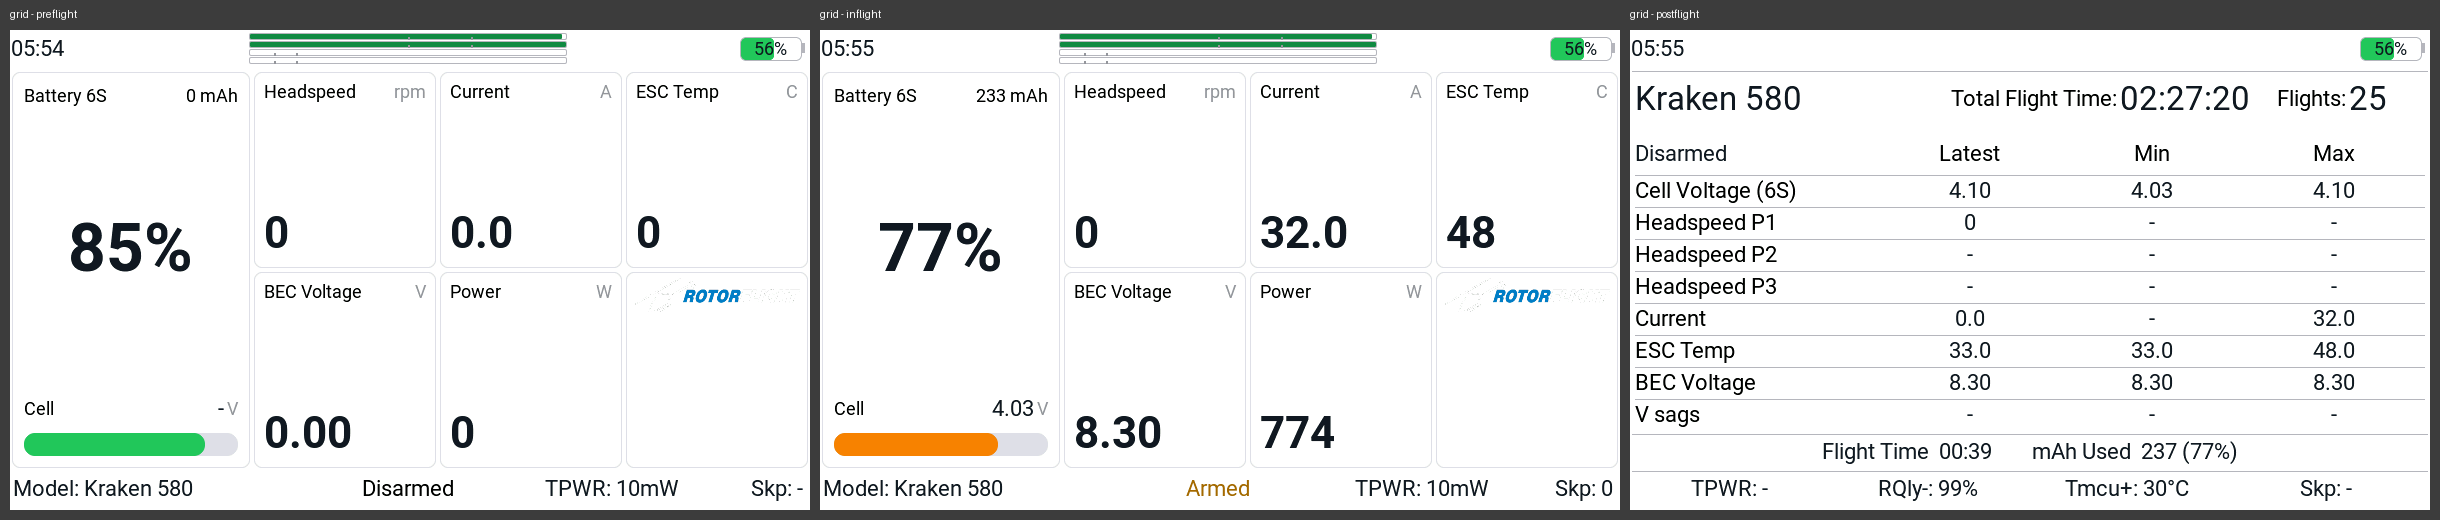
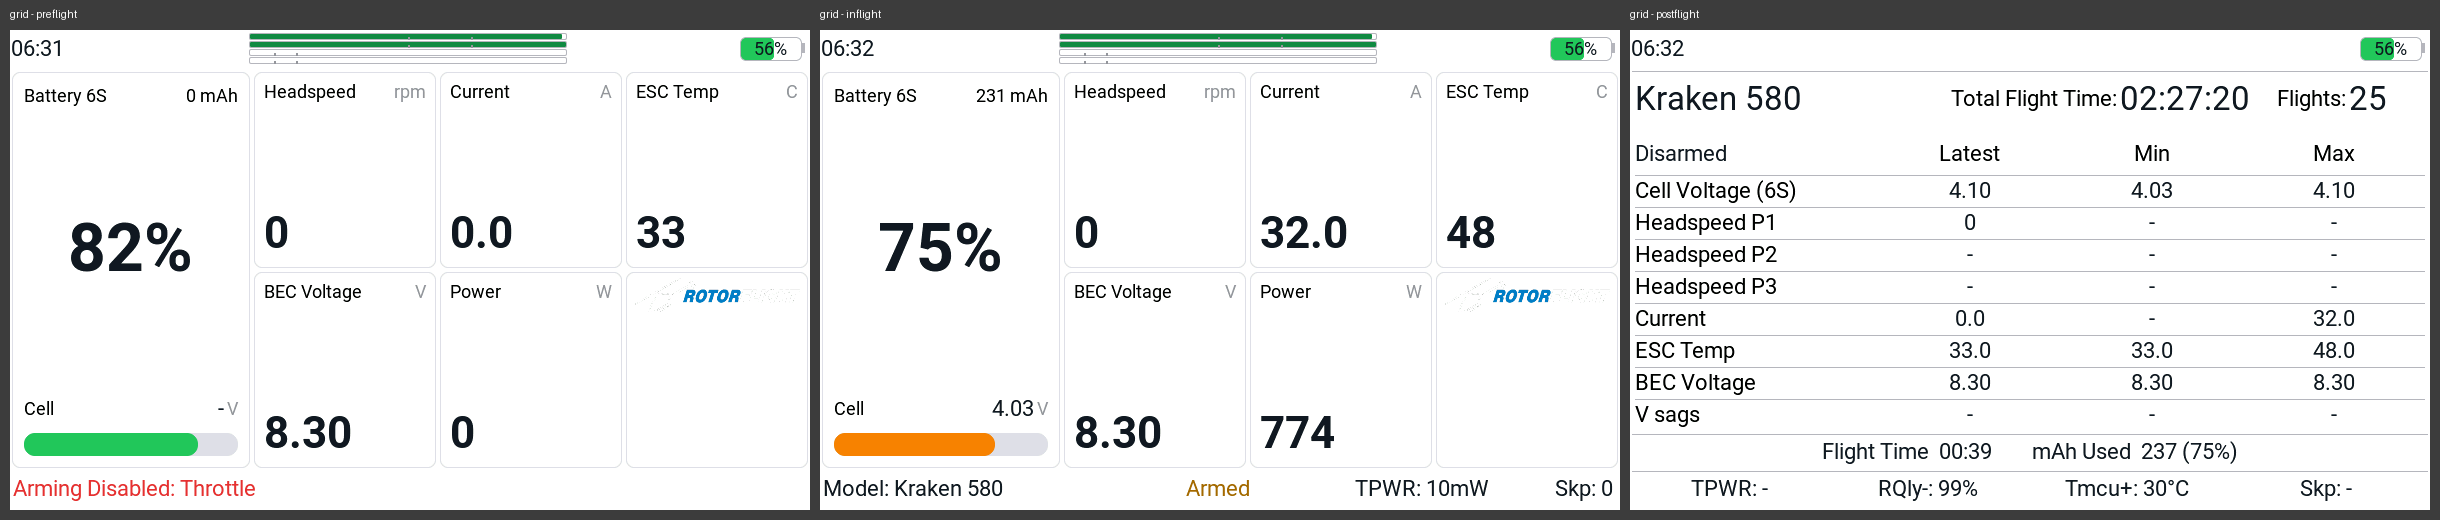
docs(dashboard): Grid's picture retaken on the final code, and its section names the arming reasons the status bar shows

diff --git a/docs/dashboard/themes.md b/docs/dashboard/themes.md
@@ -134,9 +134,10 @@ fullscreen mode. It has a page of its own: [Urban theme](urban-theme.md).
 Built on Urban and drawn from code in the same way, taking the whole screen in fullscreen mode:
 Urban's top bar over a battery panel down the left — the battery percentage, the cell voltage,
 the capacity used and a fill bar — beside a grid of value tiles, and a status bar at the foot
-with the model name, the arm state, the transmitter power and the skipped telemetry frames. The
-screen keeps its shape in flight; after the flight it shows Urban's statistics screen in Grid's
-colours. It has a page of its own: [Grid theme](grid-theme.md).
+with the model name, the arm state, the transmitter power and the skipped telemetry frames, or
+the reasons arming is blocked. The screen keeps its shape in flight; after the flight it shows
+Urban's statistics screen in Grid's colours. It has a page of its own:
+[Grid theme](grid-theme.md).
 
 ![Grid before, during and after the flight](../images/dashboard/themes/grid.png)
 
